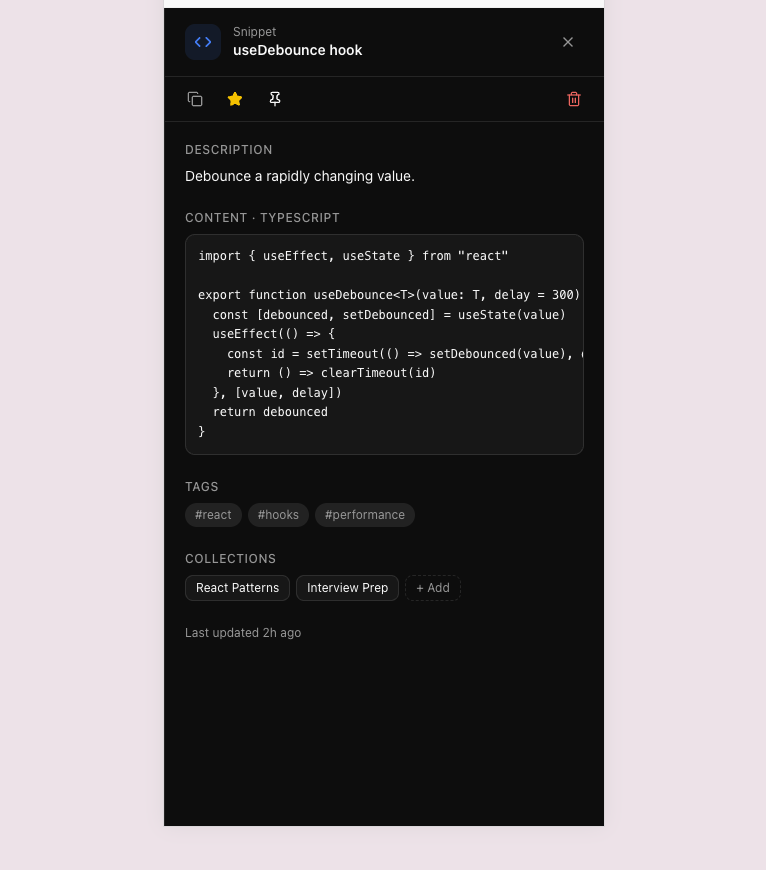
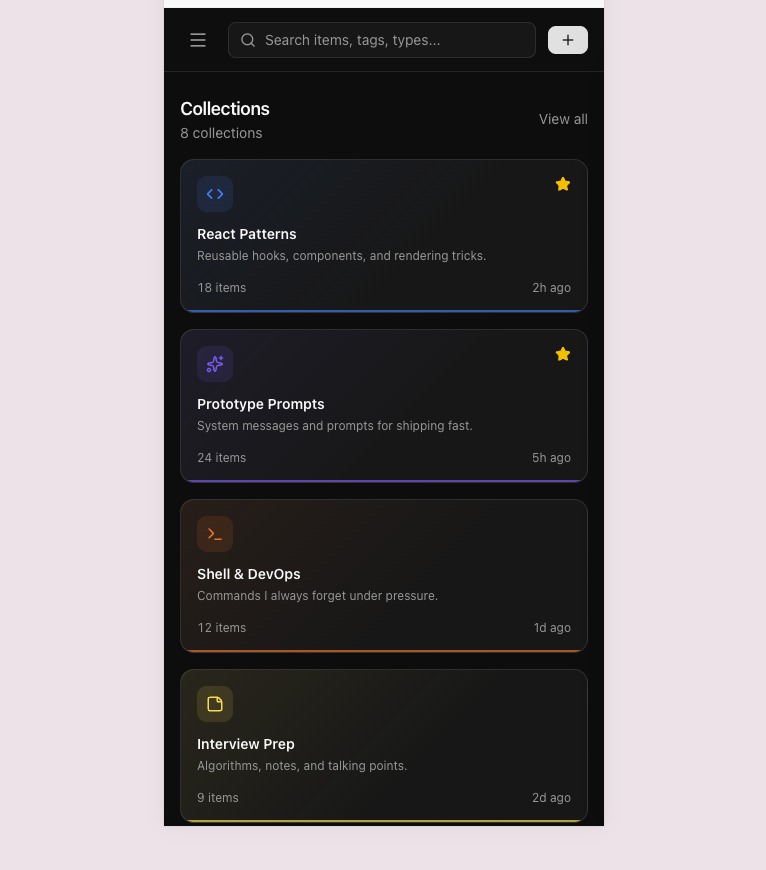
Include dashboard phase 3 spec in current-feature.md

diff --git a/context/current-feature.md b/context/current-feature.md
@@ -1,18 +1,38 @@
 # Current Feature
 
-<!-- Feature name and short description -->
+Dashboard UI Phase 3 — Main area. The dashboard content to the right of the
+sidebar: stats, collections, and items.
 
 ## Status
-<!-- Not Started | In Progress | Completed -->
+
+In Progress
 
 ## Goals
-<!-- Goals and requirements -->
+
+- The main area to the right
+- Recent collections
+- Pinned items
+- 10 recent items
+- 4 stats cards at the top — total items, collections, favorite items, favorite
+  collections (not in the screenshot)
 
 ## References
-<!-- Links to spec docs and related files -->
+
+- @context/features/dashboard-phase-3-spec.md
+- @context/screenshots/dashboard-ui-main.png
+- @context/screenshots/dashboard-ui-main-responsive.png
+- @context/project-overview.md
+- @src/lib/mock-data.ts
 
 ## Notes
-<!-- Any extra notes -->
+
+- Final phase of 3 for the dashboard UI layout.
+- Import mock data directly from `src/lib/mock-data.ts` until the database lands.
+- The spec references `src/lib/mock-data.js`; the real file is `.ts`.
+- `src/lib/item-types.ts` (phase 2) already maps icon names, labels, and hrefs —
+  reuse it for the item and collection cards.
+- Collection cards are tinted by their dominant item type, but nothing in the
+  mock data links a collection to a type yet; that field is still needed.
 
 ## History
 <!-- Keep this updated. Earliest to latest -->

diff --git a/context/features/dashboard-phase-3-spec.md b/context/features/dashboard-phase-3-spec.md
@@ -15,6 +15,8 @@ This is phase 3 of 3 for the dashboard UI layout. Use the screenshot referenced 
 ## References
 
 - @context/screenshots/dashboard-ui-main.png
+- @context/screenshots/dashboard-ui-main-responsive.png
+- @context/screenshots/dashboard-ui-menu-responsive.png
 - @context/project-overview.md
 - @src/lib/mock-data.js
 - @context/features/dashboard-phase-1-spec.md
